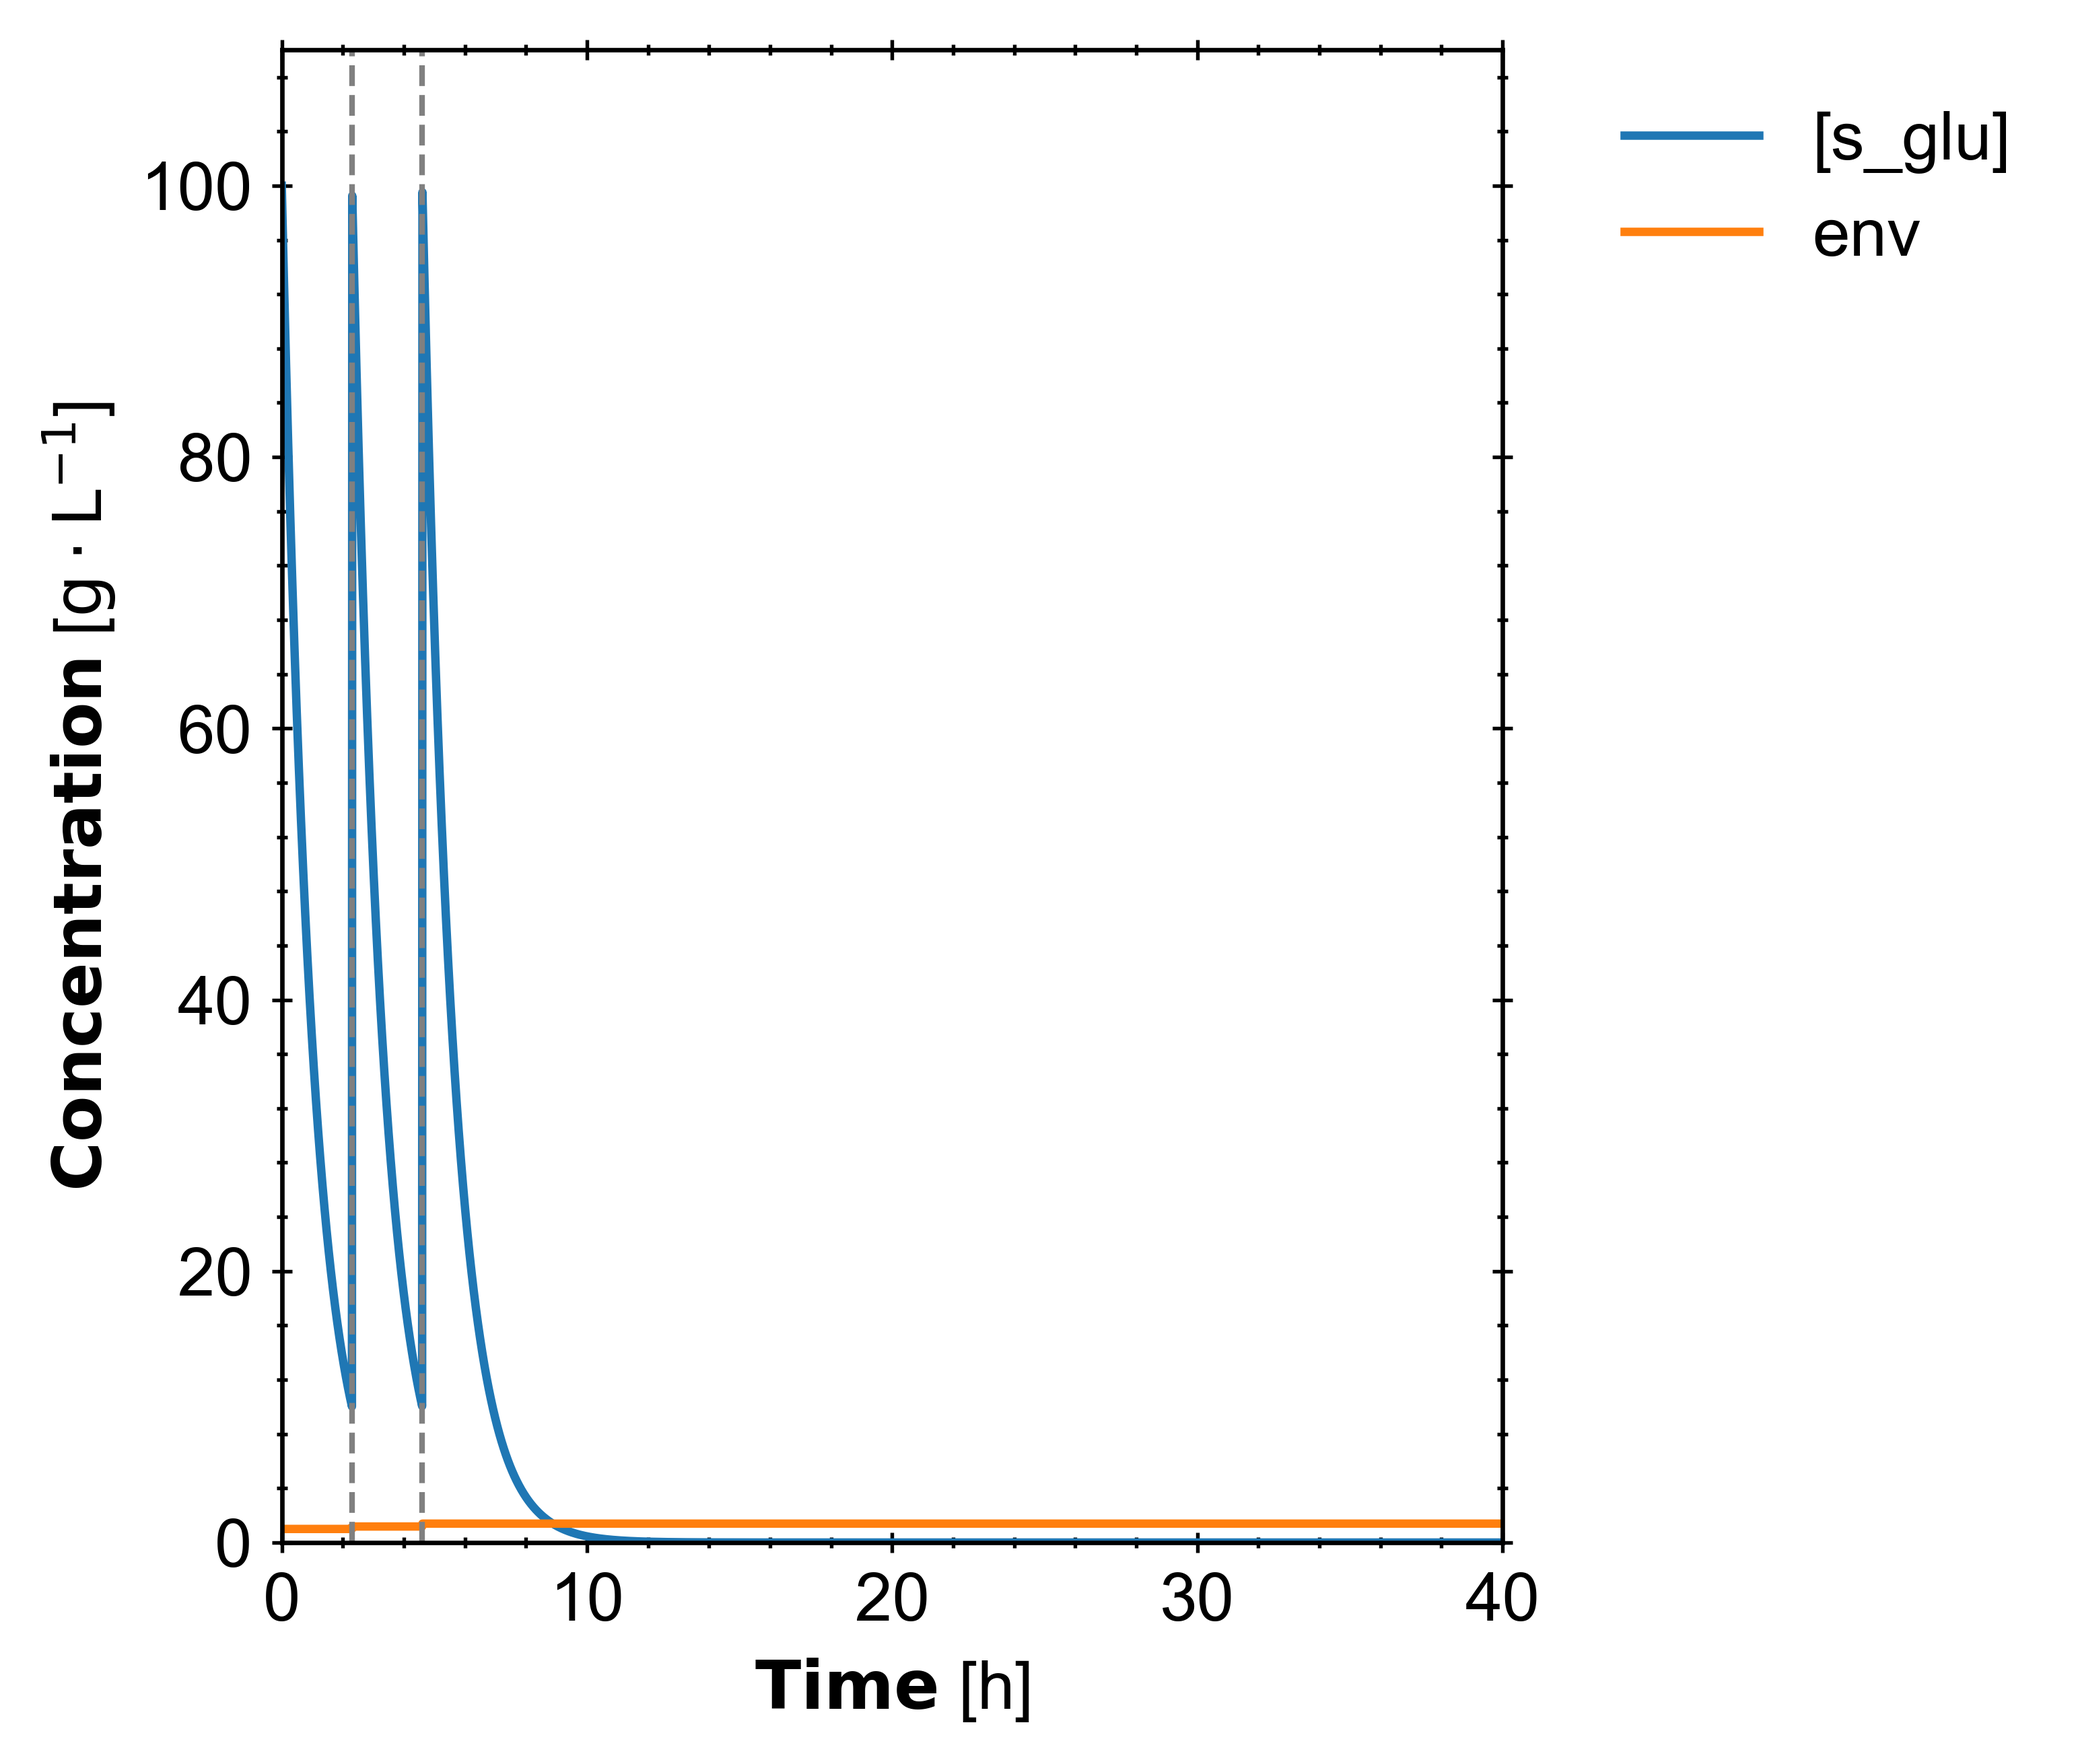
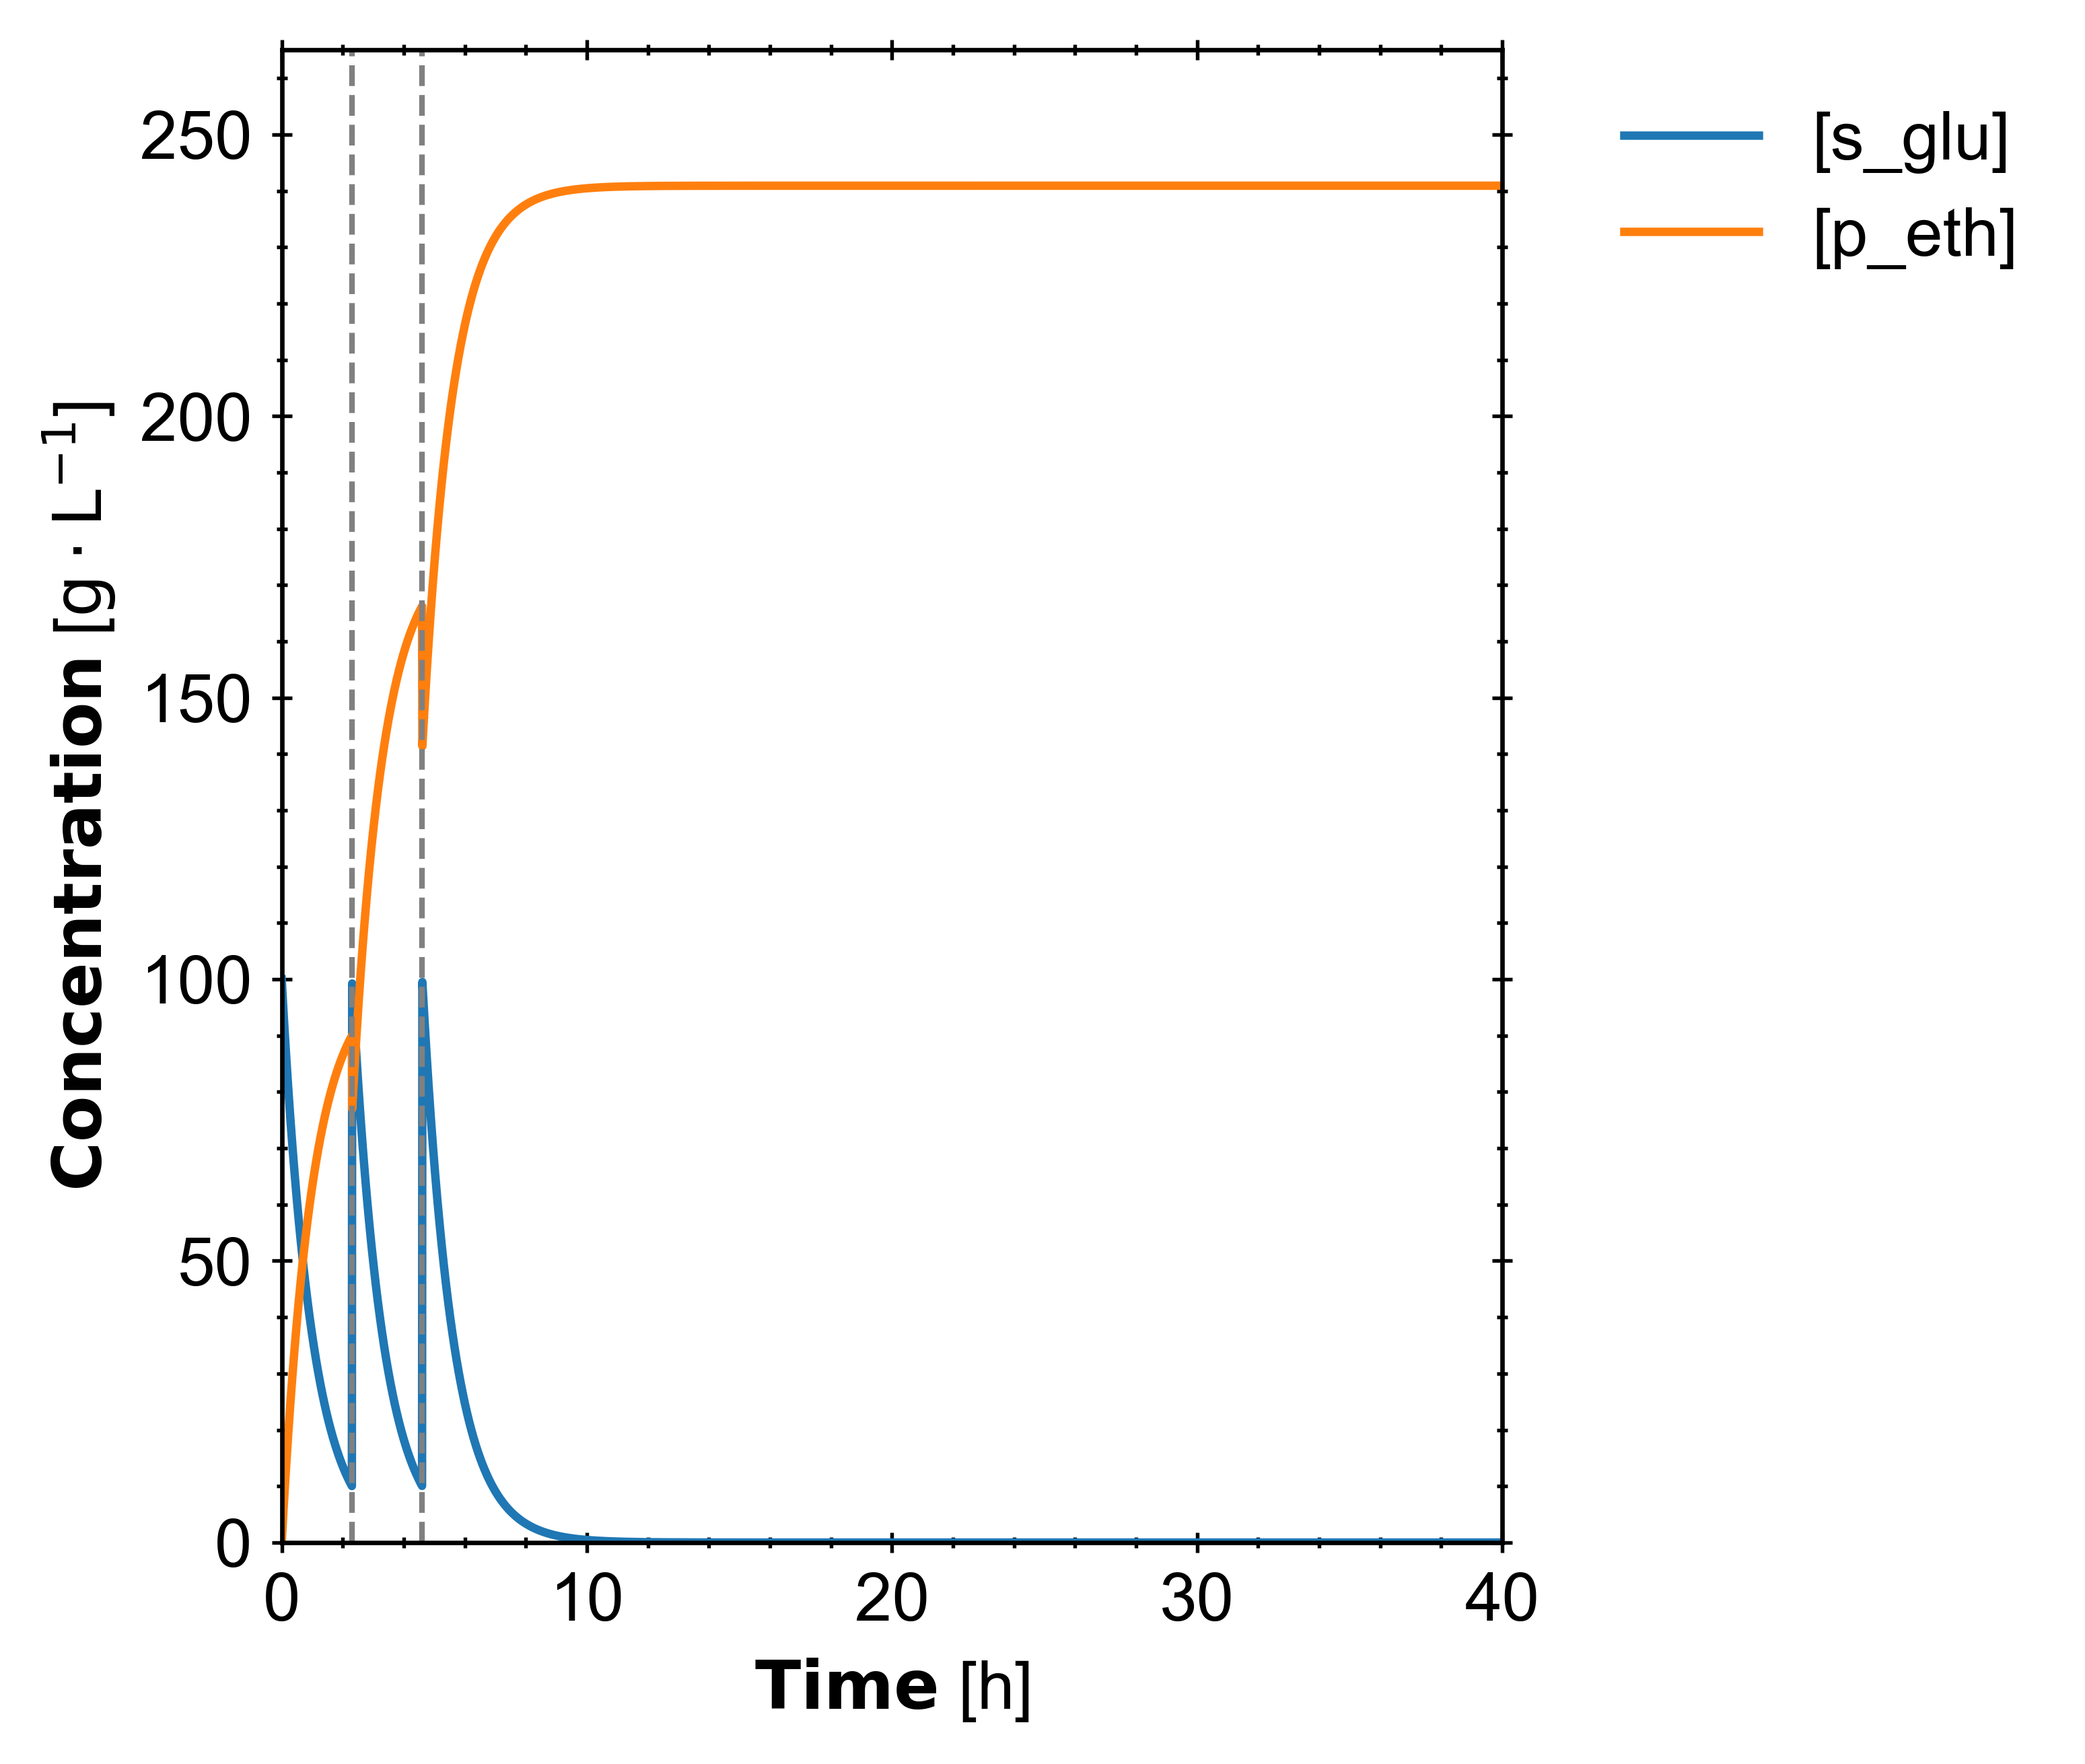
feat: allow relabeling the plot y-axis; split env onto its own figure
plot_simulation_results hardcoded a "Concentration [conc unit]" y-axis, so
any non-concentration selection was mislabeled. Add optional `ylabel` and
`ylabel_unit` overrides, plus renderings for volume units (L, mL, m3), and
factor the bold-mathtext construction into _bf() so multi-word labels get
their spaces escaped rather than collapsed.

Both parameters default to the previous behavior; the emitted default
labels are byte-identical to the hardcoded ones.

Use this in tutorial 04: the working volume env now gets its own figure
with a "Working volume [L]" axis, where its 1.0 -> 1.18 -> 1.392 L
staircase is legible, instead of being squashed against the floor of a
0-250 g/L concentration axis. Figure ii keeps the two concentrations,
which legitimately share an axis.

diff --git a/nskinetics/reaction_systems/tellurium_based/tellurium_sbml.py b/nskinetics/reaction_systems/tellurium_based/tellurium_sbml.py
@@ -35,6 +35,27 @@ _CONC_UNIT_LABELS = {
     'mol/L': r'\mathrm{mol} \cdot \mathrm{L}^{-1}',
 }
 
+# Renderings for the non-concentration quantities a trajectory may also carry
+# (working volume, most commonly), reachable via plot_simulation_results'
+# `ylabel_unit`. Merged with the concentration units for lookup.
+_OTHER_UNIT_LABELS = {
+    'L': r'\mathrm{L}',
+    'mL': r'\mathrm{mL}',
+    'm3': r'\mathrm{m}^{3}',
+    'm^3': r'\mathrm{m}^{3}',
+}
+
+_UNIT_LABELS = {**_CONC_UNIT_LABELS, **_OTHER_UNIT_LABELS}
+
+
+def _bf(text):
+    """Render ``text`` as a bold mathtext run, escaping spaces.
+
+    Mathtext collapses literal spaces, so a multi-word axis label such as
+    ``'Working volume'`` needs its spaces escaped to survive ``\\bf``.
+    """
+    return r'$\bf' + str(text).replace(' ', r'\ ') + '$'
+
 
 class TelluriumReactionSystem():
     """
@@ -292,7 +313,7 @@ class TelluriumReactionSystem():
     def plot_simulation_results(self, variables=None, labels=None,
                                 xlim=None, ylim=None, markers=None,
                                 save_fig=False, filename=None, figwidth=3.9,
-                                **kwargs):
+                                ylabel=None, ylabel_unit=None, **kwargs):
         """Plot concentration vs. time for the most recent simulation.
 
         Also available under the aliases :meth:`plot_time_course` and
@@ -320,6 +341,15 @@ class TelluriumReactionSystem():
             Output path used when ``save_fig`` is ``True``.
         figwidth : float
             Figure width in inches. Defaults to ``3.9``.
+        ylabel : str, optional
+            Quantity name for the y-axis, rendered in bold. Defaults to
+            ``'Concentration'``. Pass e.g. ``'Volume'`` when plotting a
+            non-concentration selection such as the working-volume compartment.
+        ylabel_unit : str, optional
+            Unit shown in brackets after ``ylabel``. Defaults to this system's
+            ``'conc'`` unit. Known units (``'g/L'``, ``'M'``, ``'L'``, ``'m3'``,
+            …) are rendered as LaTeX; anything else is shown verbatim. Pass e.g.
+            ``'L'`` alongside ``ylabel='Volume'``.
         **kwargs
             Named vertical event lines, as ``label=time`` pairs. Each draws a
             labeled dashed line at ``time`` (in the plotted time units) and adds
@@ -365,10 +395,11 @@ class TelluriumReactionSystem():
             ax.plot(time, d[var], label=label)
 
         time_u = self._units.get('time', '')
-        conc_u = self._units.get('conc', '')
-        conc_label = _CONC_UNIT_LABELS.get(conc_u, conc_u)
-        ax.set_xlabel(r"$\bfTime$" + f' [{time_u}]')
-        ax.set_ylabel(r"$\bfConcentration$" + ' [' + f'${conc_label}$' + ']')
+        y_quantity = 'Concentration' if ylabel is None else ylabel
+        y_u = self._units.get('conc', '') if ylabel_unit is None else ylabel_unit
+        y_u_label = _UNIT_LABELS.get(y_u, y_u)
+        ax.set_xlabel(_bf('Time') + f' [{time_u}]')
+        ax.set_ylabel(_bf(y_quantity) + ' [' + f'${y_u_label}$' + ']')
 
         ax.xaxis.set_minor_locator(AutoMinorLocator(n_minor_ticks + 1))
         ax.yaxis.set_minor_locator(AutoMinorLocator(n_minor_ticks + 1))

diff --git a/docs/source/tutorial/04_fed_batch_feeding.rst b/docs/source/tutorial/04_fed_batch_feeding.rst
@@ -202,20 +202,39 @@ prints:
    [ 2.3   10.026 89.974  1.     0.   ] -> [ 2.31  99.262 77.01   1.18   1.   ]
    [  4.6    10.052 166.219   1.18    1.   ] -> [  4.61   99.519 141.389   1.392   2.   ]
 
-The plot keeps to ``[s_glu]`` and ``env``, since ``[p_eth]`` runs up to
-~241 g/L and would flatten the working-volume trace out of readability:
+The two concentrations go on one plot, since they share a y-axis:
 
 .. code-block:: python
 
-   trs.plot_simulation_results(variables=['[s_glu]', 'env'],
-                               labels=['[s_glu]', 'env'],
+   trs.plot_simulation_results(variables=['[s_glu]', '[p_eth]'],
+                               labels=['[s_glu]', '[p_eth]'],
                                markers=[(2.3, 'spike'), (4.6, 'spike')])
 
 .. figure:: /_static/images/examples/tutorial_04_fed_batch_ii.png
    :width: 400
 
-   Each spike snaps ``[s_glu]`` back up while the working volume ``env`` steps
-   up by the feed added (1.0 → 1.18 → 1.39).
+   Each spike snaps ``[s_glu]`` back up to ~100 g/L and knocks ``[p_eth]``
+   down by the dilution factor; ``[p_eth]`` then climbs to ~241 g/L as the
+   last charge of substrate is converted.
+
+``env`` needs its own plot. It is a *volume*, not a concentration, so it
+does not belong on the axis above — and on a 0–250 g/L scale its 1.0 → 1.39
+range would be flattened into an unreadable line at the axis floor.
+``ylabel``/``ylabel_unit`` relabel the y-axis for exactly this case:
+
+.. code-block:: python
+
+   trs.plot_simulation_results(variables=['env'], labels=['env'],
+                               ylabel='Working volume', ylabel_unit='L',
+                               markers=[(2.3, 'spike'), (4.6, 'spike')])
+
+.. figure:: /_static/images/examples/tutorial_04_fed_batch_iii.png
+   :width: 400
+
+   On its own axis the working volume is a clean staircase: ``env`` holds at
+   1.0 L, then steps to 1.18 L and 1.392 L as each spike's event **b** adds
+   the feed volume that event **a** computed. It is flat everywhere else —
+   volume changes only at a spike.
 
 .. warning::
 
